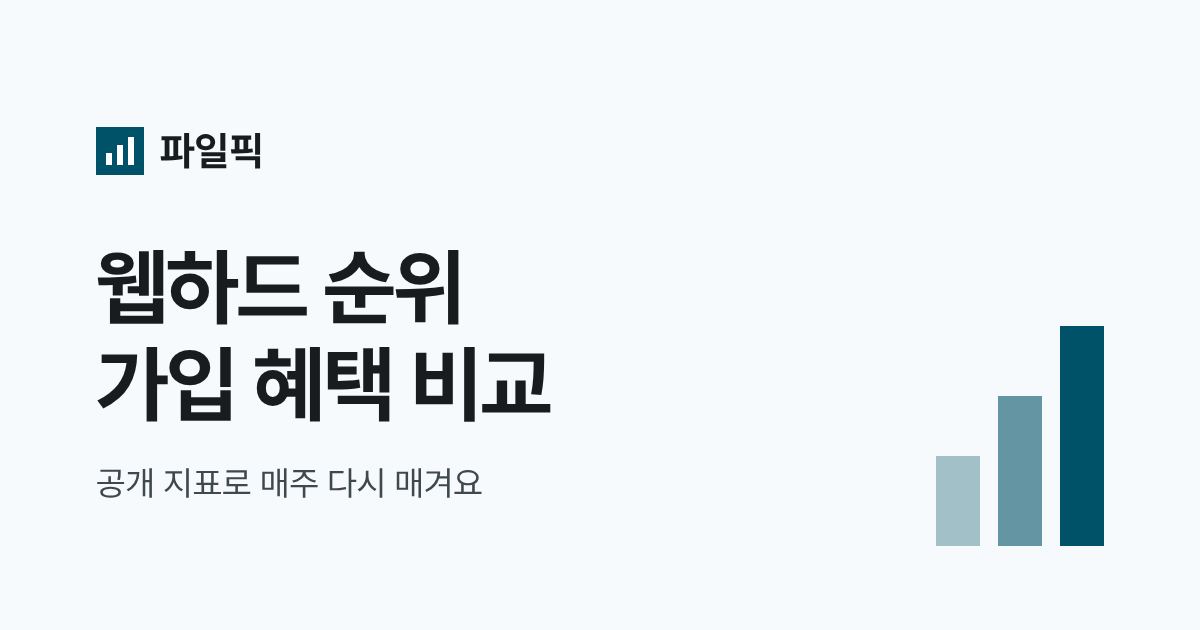
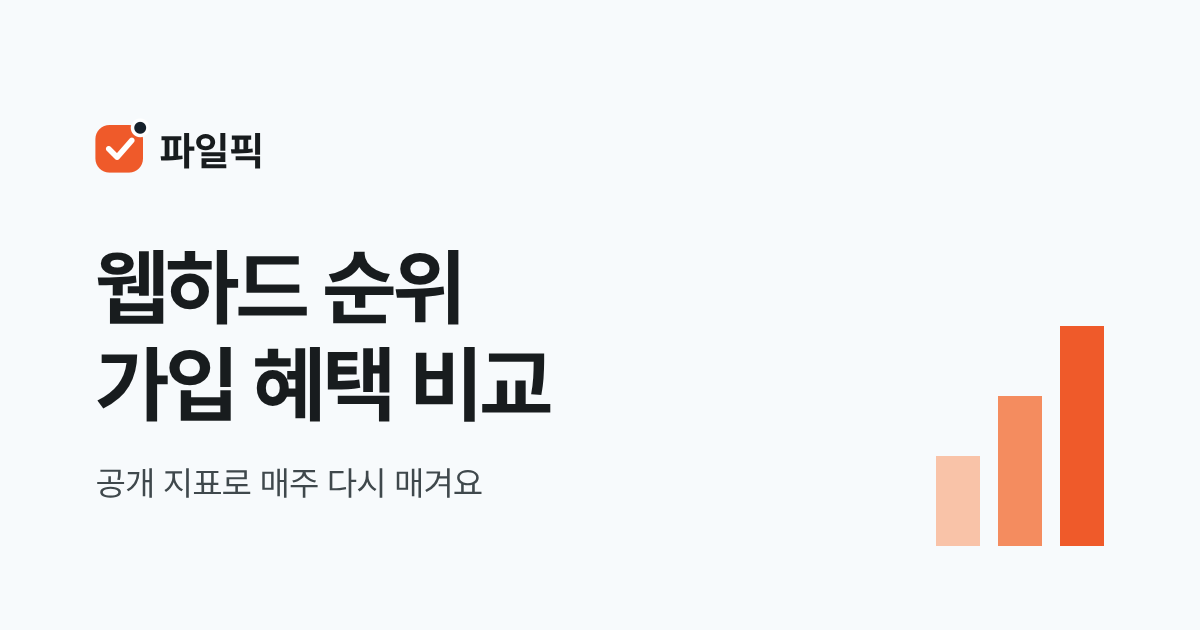
화면: 로고 마크 정리, 주황 키 컬러 확대, 가입 포인트 높은 순 모음

Changed region(s): [[0.7708, 0.5127, 0.925, 0.8746], [0.0617, 0.181, 0.1233, 0.3016]]

diff --git a/src/site.css b/src/site.css
@@ -11,6 +11,7 @@
   --up: #d1343d;
   --down: #0a6fd8;
   --accent: #ef5a2a;
+  --accent-text: #c2410c;
   --guide-text: #b6c0cb;
   --guide-link: #76baff;
   --track: #e3e9f0;
@@ -122,9 +123,10 @@ a:focus-visible {
 }
 
 .pick__symbol {
-  width: 46px;
-  height: 36px;
-  color: #18212c;
+  flex: none;
+  width: 38px;
+  height: 38px;
+  color: var(--accent);
 }
 
 .pick__word {
@@ -144,11 +146,11 @@ a:focus-visible {
 }
 
 .pick__tag {
-  margin-top: 5px;
+  margin-top: 3px;
   color: var(--muted);
-  font-size: 9px;
-  font-weight: 800;
-  letter-spacing: 1px;
+  font-size: 11px;
+  font-weight: 600;
+  letter-spacing: -0.2px;
 }
 
 .topnav {
@@ -169,7 +171,7 @@ a:focus-visible {
 }
 
 .topnav__link[aria-current="page"] {
-  color: var(--blue-text);
+  color: var(--accent-text);
 }
 
 .topnav__link:hover,
@@ -353,7 +355,7 @@ a:focus-visible {
 }
 
 .entry--top .entry__num {
-  color: var(--blue);
+  color: var(--accent);
 }
 
 .move {
@@ -593,7 +595,7 @@ a:focus-visible {
 }
 
 .gauge__fill {
-  stroke: var(--blue);
+  stroke: var(--accent);
 }
 
 .gauge__value {
@@ -808,8 +810,8 @@ a:focus-visible {
 }
 
 .chip[aria-current="page"] {
-  border-color: var(--blue-text);
-  color: var(--blue-text);
+  border-color: var(--accent-text);
+  color: var(--accent-text);
 }
 
 .chip__count {
@@ -1901,7 +1903,8 @@ a:focus-visible {
   }
 
   .pick__symbol {
-    width: 40px;
+    width: 34px;
+    height: 34px;
   }
 
   .pick__name {

diff --git a/CLAUDE.md b/CLAUDE.md
@@ -42,7 +42,7 @@
 ## 디자인 변수 (`:root`)
 
 - 기존 파일픽 디자인(흰 카드 목록, 남색 버튼, 오른쪽 사이드바, 카드형 안내 페이지)을 따른다. 새 요소는 총점 게이지, 통계 줄의 남은 시간, 사이드바의 집계에 쓴 데이터, 순위표 아래 혜택 조건 칩, 순위표 줄의 혜택 칩(가입 혜택·기타 혜택 두 줄, 가입은 `--chip-bg`·`--chip-text`, 기타는 회색 바탕, 모바일은 첫 줄 칩만), 로고는 가로세로 비율로 넓이를 맞춰 크기를 통일(`LOGO_AREA`), 사이트 확인(남색 채움)·상세 정보(연한 회색 채움) 같은 크기 두 버튼(둘 다 › 아이콘)(누르는 영역 44px 안에 작은 모양), 게이지 아래 '총점' 라벨, 순위 검증 가이드의 다른 웹하드 캐러셀(`src/rail.js`, 스크립트가 꺼져도 옆으로 넘겨 볼 수 있음), 업체 페이지(위에 로고, 그 아래 업체 이름, 그 아래 서비스 소개 카드와 순위·총점·사이트 확인 카드를 본문·사이드바 열에 맞춰 한 줄로, 그 아래 기본 정보·혜택 정보·요약 지표·업체 설명, 맨 아래 다른 웹하드 캐러셀)다. 순위표 설명 한 줄은 두 줄까지만 보인다. 업체 설명은 데이터로 만든 문장만 쓴다. 공개 순위 밖 업체에는 순위 문구(○위 밖, 집계 전 등)를 쓰지 않는다. 통계 줄은 본문 전체 폭(순위표 왼쪽 끝~사이드바 오른쪽 끝)에 맞춘다. 화면 폭 350px 아래로는 더 줄이지 않고 350px 화면을 그대로 둔다(옆으로 넘겨 봄).
-- 색: `--blue` 큰 순위 숫자·게이지, `--blue-text` 작은 파란 글자(혜택·라벨), `--navy` 버튼·안내 카드, `--bg` 바탕, `--line`·`--line-soft` 선, `--text`·`--muted` 글자, `--logo-bg` 로고 상자, `--up`·`--down` 변동, `--accent` 로고 "픽", `--guide-text`·`--guide-link` 안내 카드 글자, `--track` 게이지 바탕, `--pill` 모바일 메뉴, `--chip-bg`·`--chip-text` 가입 혜택 칩.
+- 색: `--blue` 큰 숫자, `--blue-text` 작은 파란 글자(혜택·라벨), `--navy` 버튼·안내 카드, `--bg` 바탕, `--line`·`--line-soft` 선, `--text`·`--muted` 글자, `--logo-bg` 로고 상자, `--up`·`--down` 변동, `--accent` 키 컬러(로고 마크·로고 "픽"·1~3위 순위 숫자·총점 게이지·탭 아이콘·공유 이미지), `--accent-text` 작은 주황 글자(현재 메뉴·선택한 칩), `--guide-text`·`--guide-link` 안내 카드 글자, `--track` 게이지 바탕, `--pill` 모바일 메뉴, `--chip-bg`·`--chip-text` 가입 혜택 칩.
 - 모서리 `--radius-panel`·`--radius-box`·`--radius-btn`, 머리글 높이 `--head-h`.
 - 가리킴·포커스는 덧칠(어두운 글자 위 8%/10%, 남색 위 흰색 10%)만 쓴다. 색·크기·위치를 바꾸지 않는다.
 - CSS 클래스는 `블록__요소--변형` 형식.
